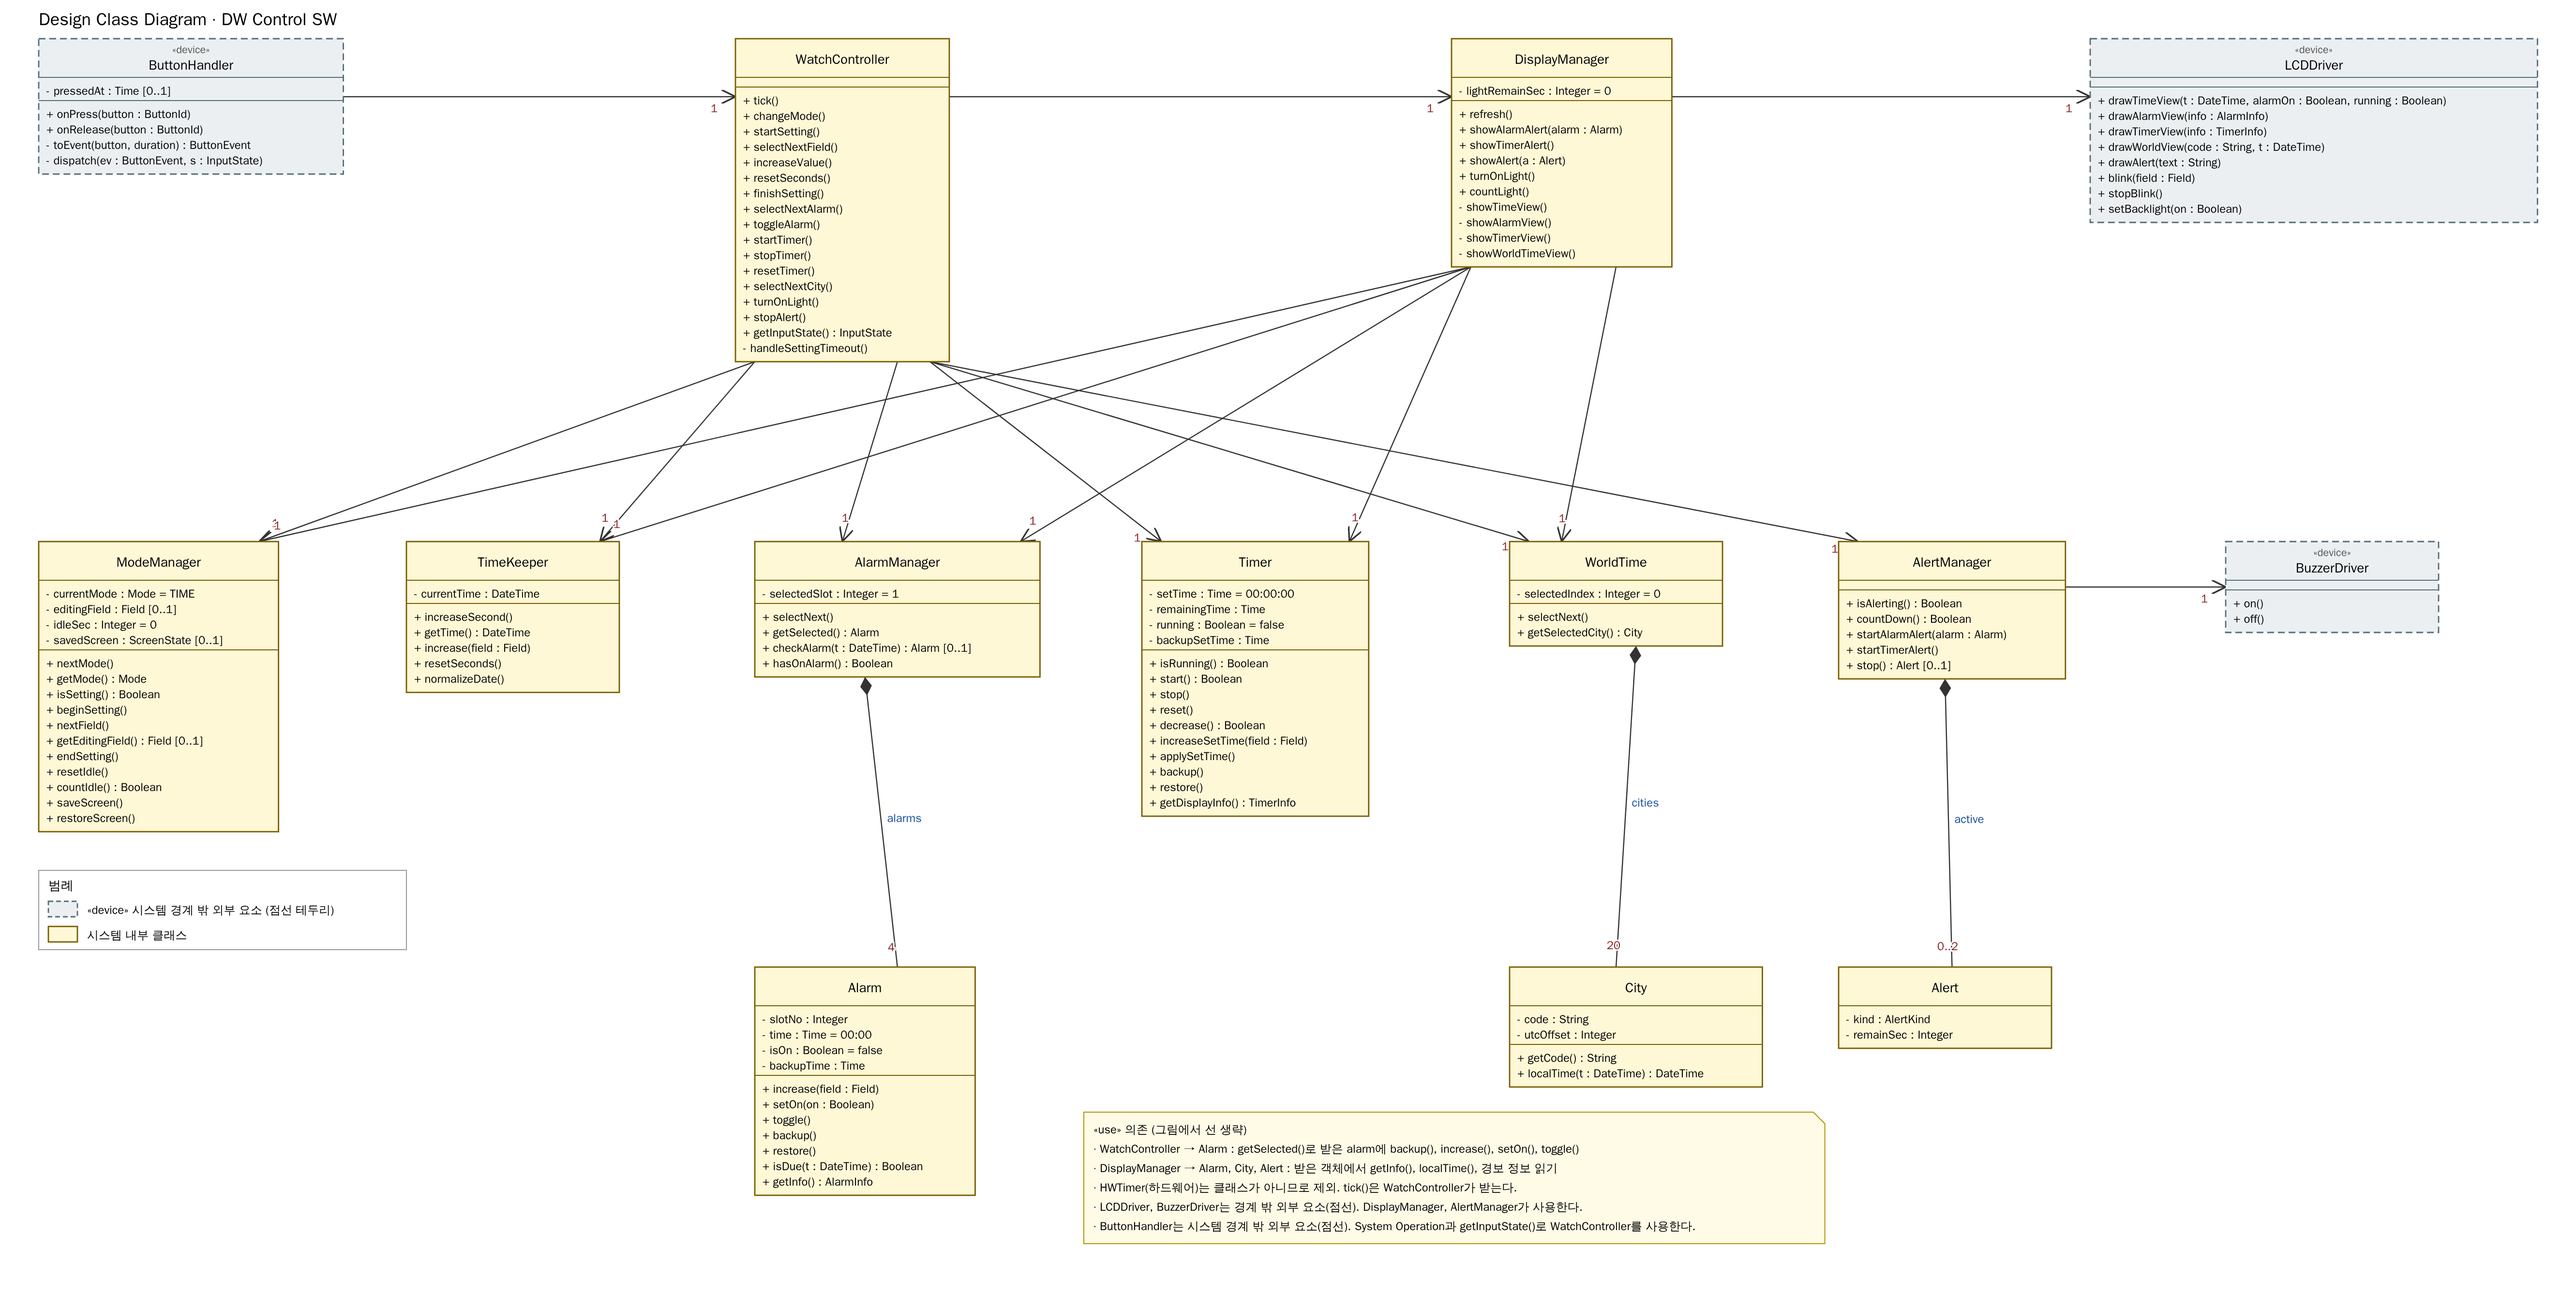
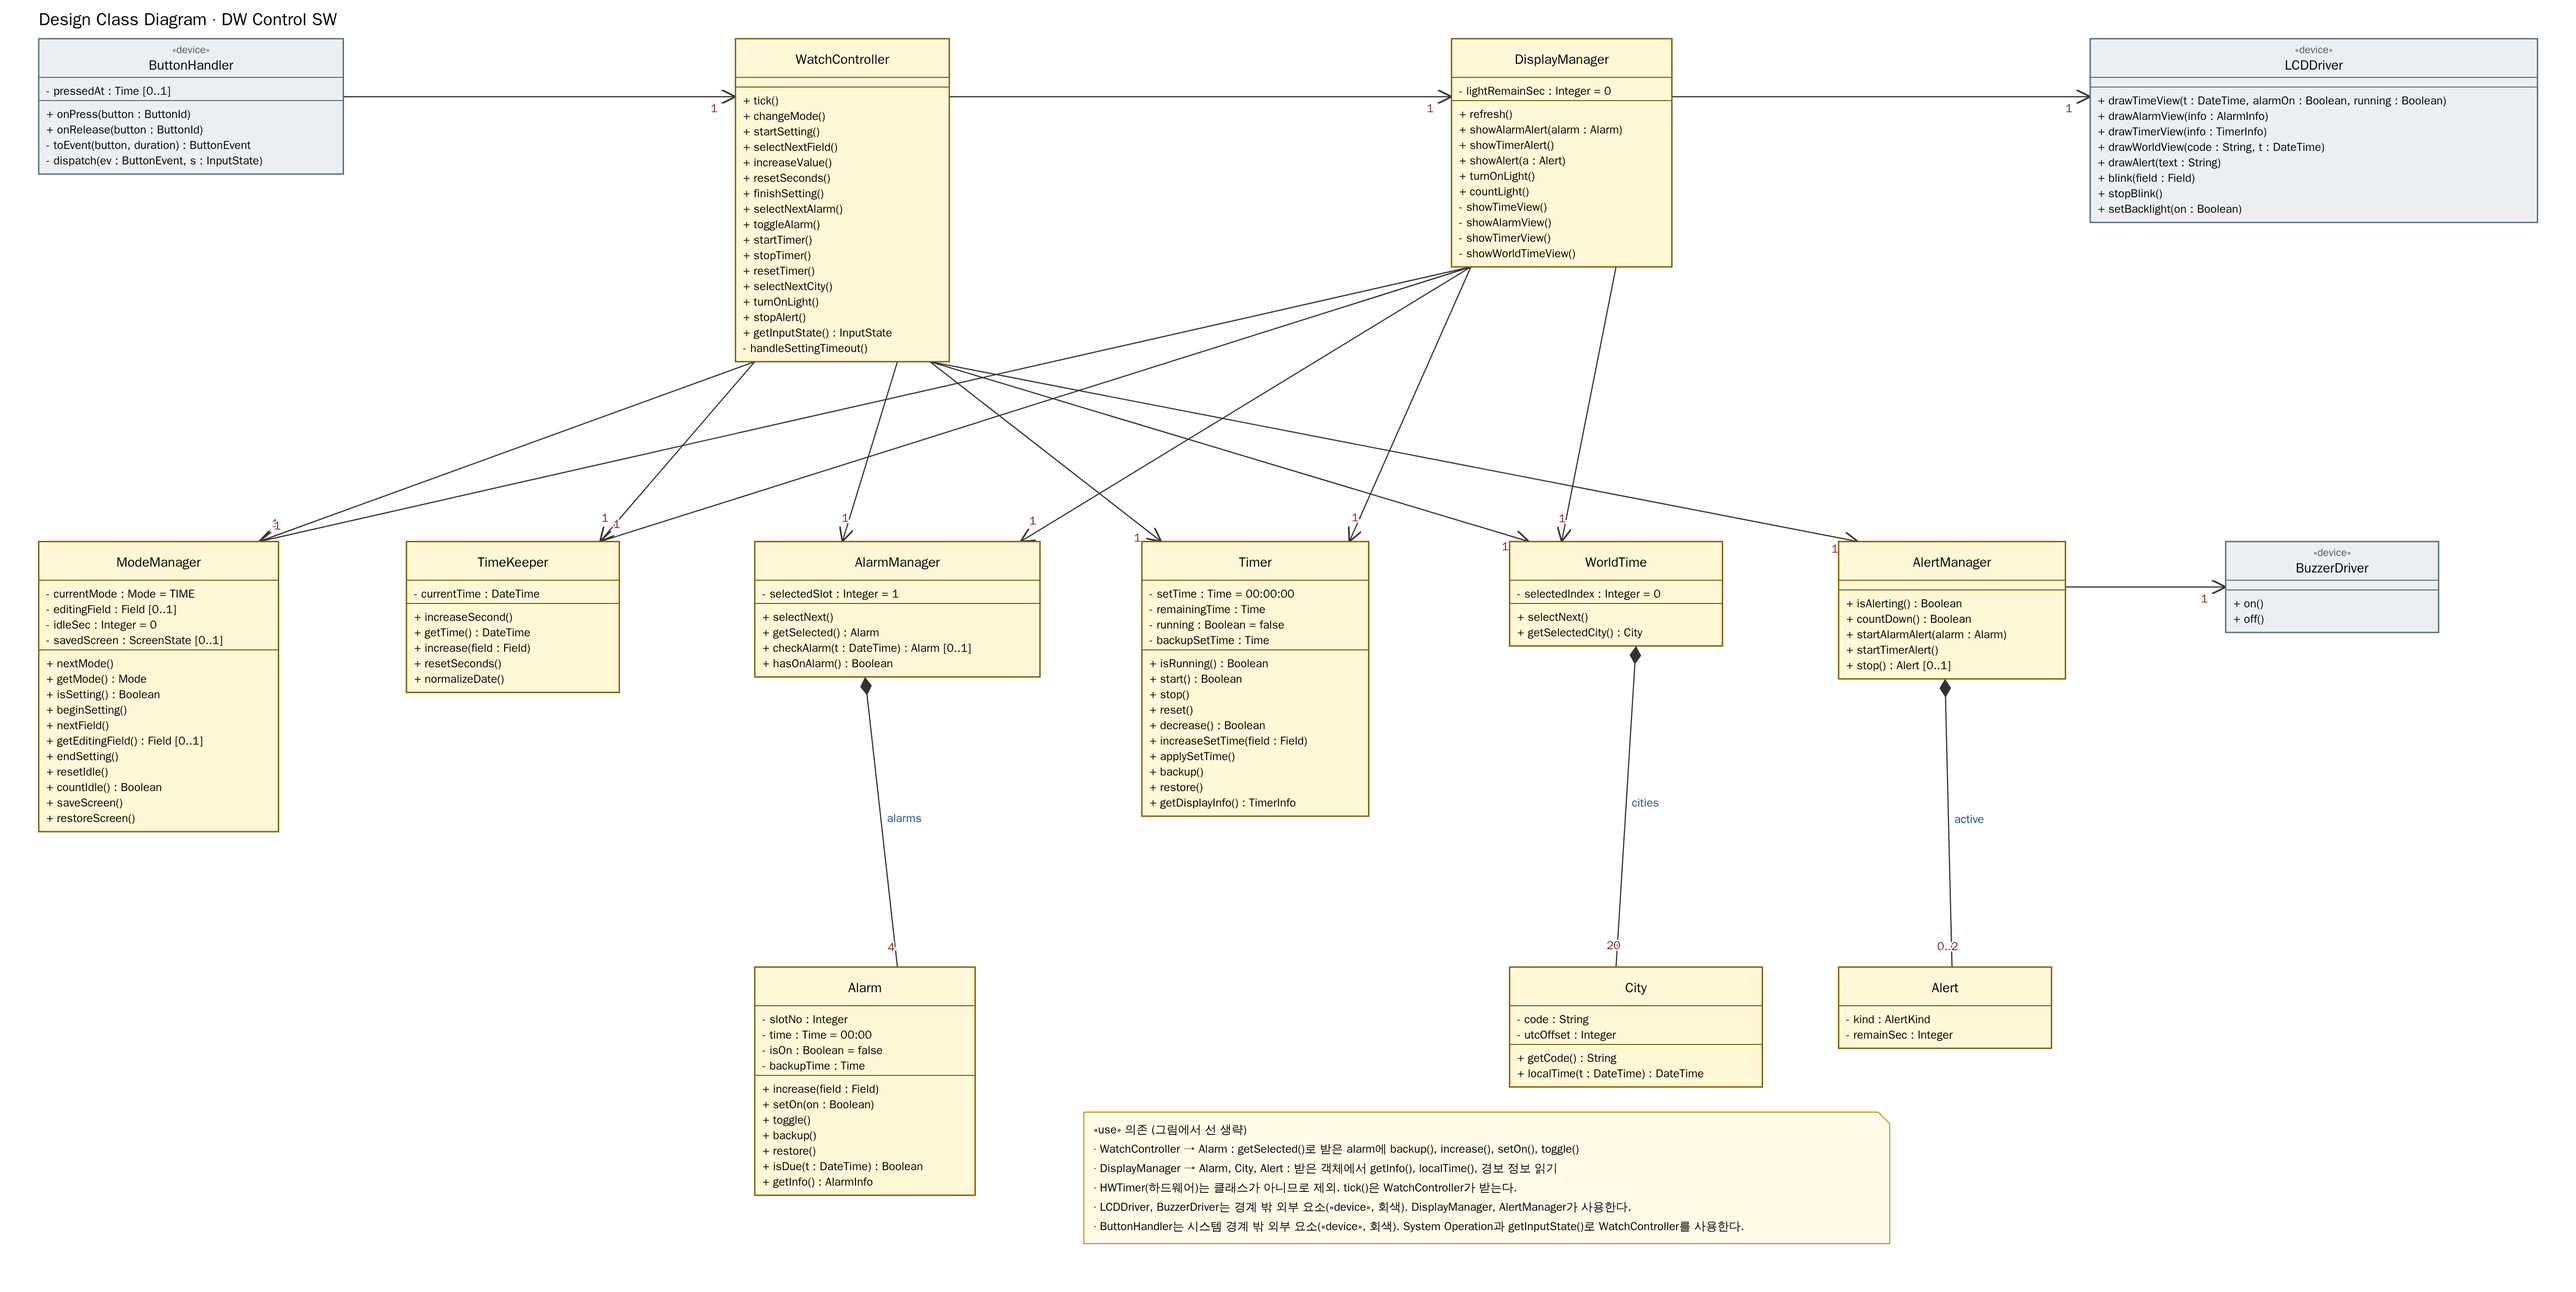
Use solid borders for external classes in DCD and remove legend
Claude-Session: https://claude.ai/code/session_01QzoU77NBfd4KbyvbPRCZW3

Changed region(s): [[0.686, 0.8387, 0.7483, 0.9629], [0.4989, 0.9319, 0.6548, 0.9629], [0.0, 0.7144, 0.0624, 0.7455]]

diff --git a/docs/OOAD/practice/DigitalWatch_UseCases.md b/docs/OOAD/practice/DigitalWatch_UseCases.md
@@ -497,8 +497,8 @@ System Operation은 **15개**다.
 ![Design Class Diagram](dcd/DigitalWatch_DesignClassDiagram.png)
 
 - 편집용 원본: [dcd/DigitalWatch_DesignClassDiagram.drawio](dcd/DigitalWatch_DesignClassDiagram.drawio) · 벡터 이미지: [SVG](dcd/DigitalWatch_DesignClassDiagram.svg)
-- 교재 Class Diagram(슬라이드 279)처럼 시스템 내부 클래스에는 스테레오타입을 붙이지 않았다. 시스템 밖의 `ButtonHandler`, `LCDDriver`, `BuzzerDriver`만 `«device»`로 표시했다. 타입 정의(열거형, 데이터 타입)는 그림에서 빼고 11.3절 표로 정리했다. 하드웨어 `HWTimer`는 클래스가 아니라서 넣지 않았다. 시스템 경계 밖의 `ButtonHandler`, `LCDDriver`, `BuzzerDriver`는 SD와 이어지도록 넣되, 회색 점선 테두리와 `«device»`로 구분했다.
-- 색 구분: 회색 점선 + `«device»`는 시스템 경계 밖 외부 요소(`ButtonHandler`, `LCDDriver`, `BuzzerDriver`), 노란색은 시스템 내부 클래스다(그림 왼쪽 범례).
+- 교재 Class Diagram(슬라이드 279)처럼 시스템 내부 클래스에는 스테레오타입을 붙이지 않았다. 시스템 밖의 `ButtonHandler`, `LCDDriver`, `BuzzerDriver`만 `«device»`로 표시했다. 타입 정의(열거형, 데이터 타입)는 그림에서 빼고 11.3절 표로 정리했다. 하드웨어 `HWTimer`는 클래스가 아니라서 넣지 않았다. 시스템 경계 밖의 `ButtonHandler`, `LCDDriver`, `BuzzerDriver`는 SD와 이어지도록 넣되, 회색과 `«device»`로 구분했다.
+- 색 구분: 회색 + `«device»`는 시스템 경계 밖 외부 요소(`ButtonHandler`, `LCDDriver`, `BuzzerDriver`), 노란색은 시스템 내부 클래스다.
 - 10장 Sequence Diagram에 나온 메시지를 받는 쪽 클래스의 operation으로 모았다(슬라이드 178: SD에서 Class Diagram을 반복적으로 도출).
 - 표기(슬라이드 142 ~ 164):
   - 가시성: `+` public, `-` private. 속성은 `이름 : 타입 [다중성] = 기본값`.
